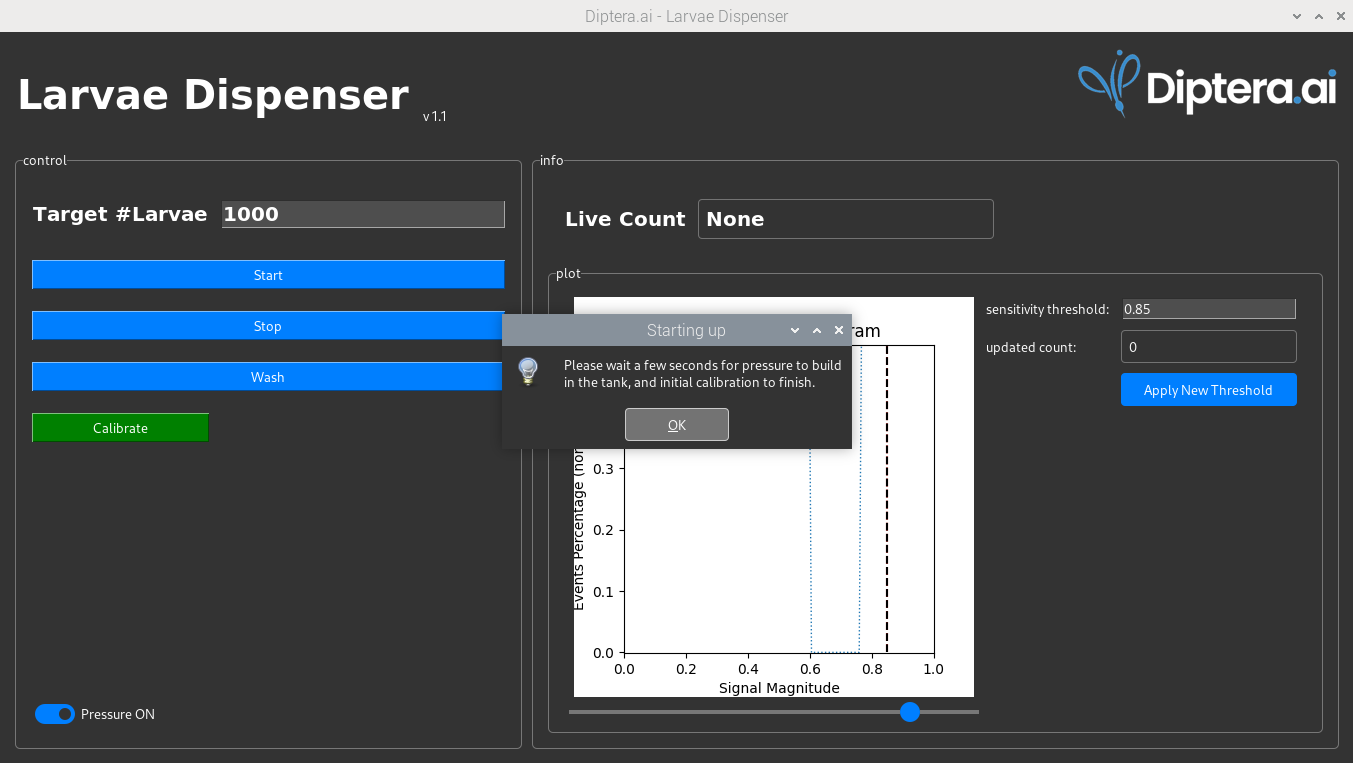
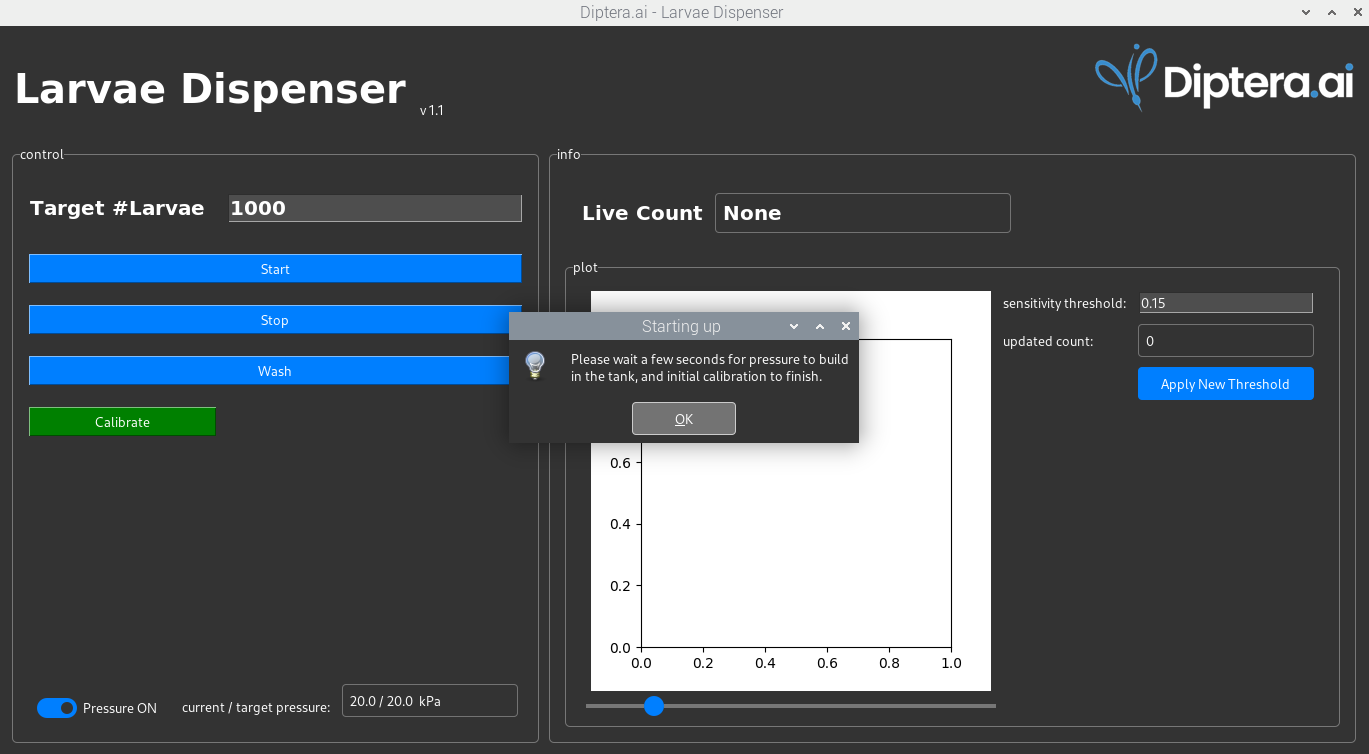
flipped histogram, new gui version with pressure readout too

diff --git a/README.md b/README.md
@@ -105,7 +105,7 @@ For the most accurate results, make sure the sample, and the system itself, are 
    <br>
    <br>
    
-   3. Once finished, the plot will be updated with a **histogram of the events' signal magnitudes**. A big larva will be detected as a low magnitude event, and vice versa - a small debris will show as a high magnitude event.\
+   3. Once finished, the plot will be updated with a **histogram of the events' signal magnitudes**. A big larva will be detected as a high magnitude event, and vice versa - a small debris will show as a low magnitude event.\
       The legend depicts different runs by their initiation timestamps.\
    Below, for example, a screenshot of the program after two runs, the most recent one in blue.
    
@@ -117,9 +117,9 @@ For the most accurate results, make sure the sample, and the system itself, are 
    
    4. Set the **sensitivity threshold**, and press **Apply New Threshold** to get a new reading of the total updated count. The higher the threshold, more events will be included in the count. Lowering the sensitivity threshold correctly allows you to remove from the count events that were probably caused by debris.
       >
-      > **A good rule of thumb is to set the sensitivity threshold to the first minima to the right of the significant curve. This, basically, removes events caused by remaining debris.**
+      > **A good rule of thumb is to set the sensitivity threshold to the first minima to the left of the significant curve. This, basically, removes events caused by remaining debris.**
    
-      In the example below, resetting the threshold to *0.75* updated the count to 918. 
+      In the example below, resetting the threshold to *0.25* updated the count to 918. 
    
    <br>
    <img src="docs/images/photos/gui/4_sensitivity_th_moved.png?raw=true" height="500" align="center" alt="">
